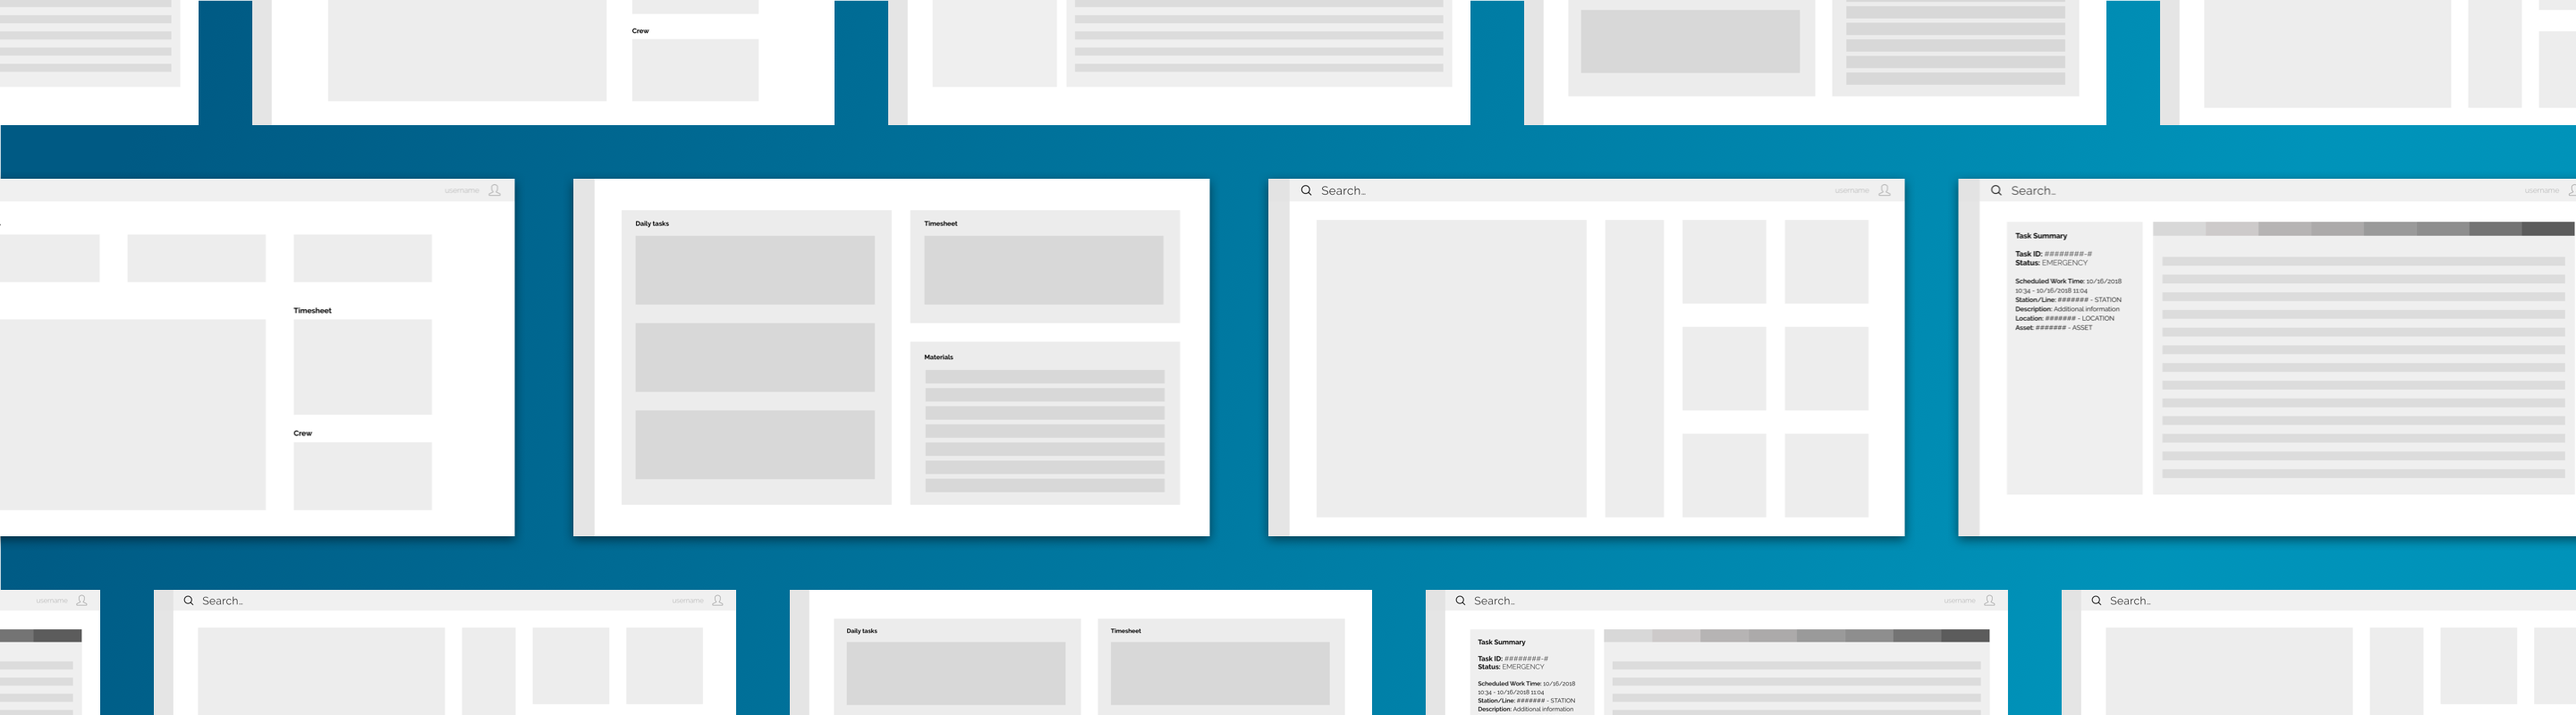
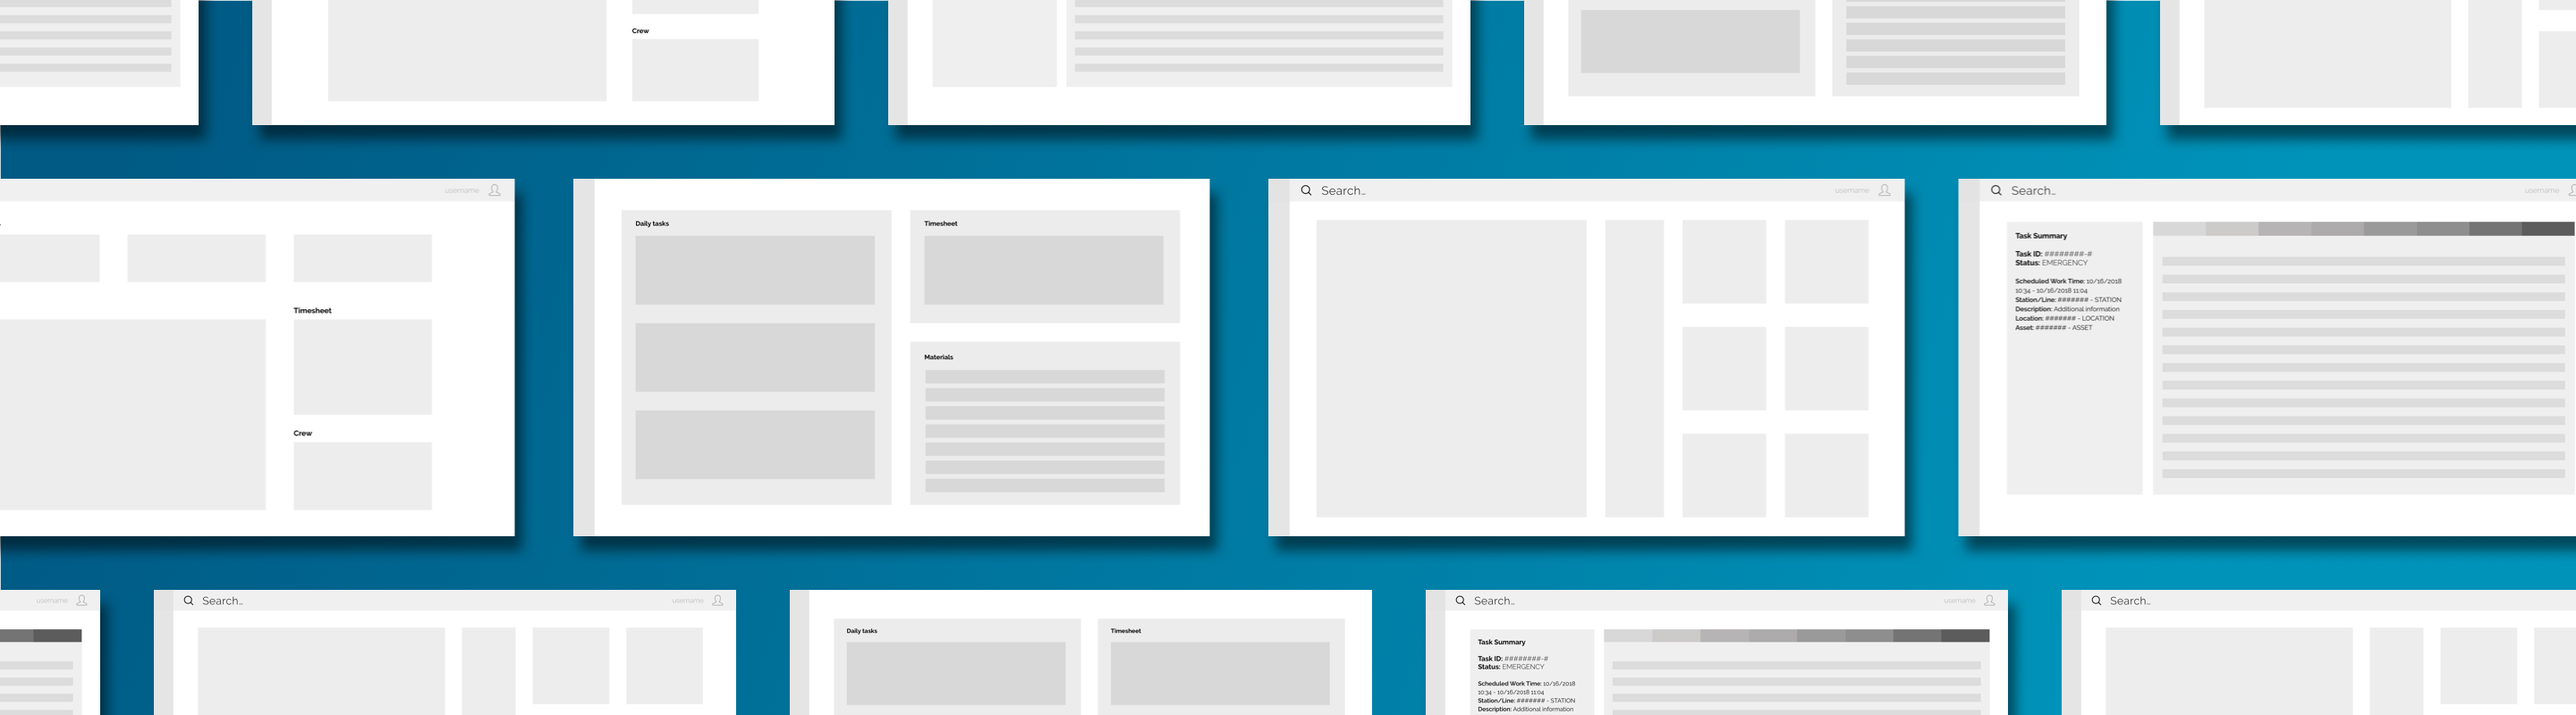
Update project images

Changed region(s): [[0.0, 0.0, 1.0, 0.2188], [0.0, 0.2812, 1.0, 0.7812], [0.0312, 0.8438, 0.0625, 1.0]]

diff --git a/projects/CAQH.html b/projects/CAQH.html
@@ -106,7 +106,7 @@
 	<div class="row">
 		<div class="col-lg-12">
 			<div class="alignfull">
-				<img src="../projects/caqh-files/full-images/caqh-1.png" class="">
+				<img src="../projects/caqh-files/full-images/components.png" class="">
 			</div>
 		</div>
 	</div>
@@ -118,7 +118,7 @@
 			<h1>Overview</h1>
 			<p>I was assigned to a project that initially tried to build a tool for users without doing proper research, user testing, and user experience design first. While the software had over 1.4 million users out of necessity for the service, the users couldn't properly use the tool. As a result, the call centers started to get overwhelmed with help calls, users became frustrated, and the tool was deemed unusable. That's when my team was brought in.</p>
 
-			<p>This project consisted of four portals, a comprehensive design system that gave the system a cohesive design, and multiple iterations to test our final product.</p>
+			<p>This project consisted of <b>four portals</b>, a <b>comprehensive design system</b> that gave the system a cohesive design, <b>8 prototypes</b> in Invision, <b>300+</b> screens in Sketch, and multiple iterations to test our final product.</p>
 
 			<p><a href="https://www.businesswire.com/news/home/20190115005246/en/CAQH-Develops-Provider-Data-Management-Solution-Delegated" target="_blank">Check out this review by Business Wire on the impact it has had in the industry!</a></p>
 		</div>
@@ -132,6 +132,16 @@
 	<div class="row justify-content-center">
 		<div class="col-lg-10 quote">
 			<h6><i>"Our new platform has the power to transform the market and establish a standard solution that eliminates operational friction and latency between groups, providers and health plans. This solution enables the platform to change and grow as the industry’s needs evolve."</i><br></h6> <p>- Ron Urwongse, CAQH’s Senior Product Manager</p>
+		</div>
+	</div>
+
+	<br><br>
+
+	<div class="row">
+		<div class="col-lg-12">
+			<div class="alignfull">
+				<img src="../projects/caqh-files/full-images/wires.png" class="">
+			</div>
 		</div>
 	</div>
 
@@ -709,6 +719,8 @@
 		<a href="https://github.com/elizabethdavis" target="_blank"><i class="fab fa-github footer-icons"></i></a>
 				
 		<a href="mailto:elizmdavis94@gmail.com"><i class="far fa-paper-plane footer-icons"></i></a>
+
+		<a href="../projects/files/ElizabethDavis-Resume.pdf" target="_blank"><i class="far fa-file-alt footer-icons"></i></a>
 	</div>
 </div>
 </body>

diff --git a/projects/duke.html b/projects/duke.html
@@ -256,7 +256,7 @@
 	<div class="row">
 		<div class="col">
 			<h1>Outcome</h1>
-			<p>The usability practices that I identified are being proposed to the business support team to identify the quick wins and a timeline of when we can implement these usability standards into the project sprints. When I was brought in, I knew that the team had already planned for several sprints in advance and tried to give general guidelines rather than specific changes that may be impacted in the future. The changes that I have proposed should start to be in effect by the end of 2019. Unfortunately, I have been moved off of this project and have been unable to see these changes through to completion, but I know that I had kept the users in mind and the best usability practices available to suggest improvements.</p>
+			<p>The usability practices that I identified are being proposed to the business support team to identify the quick wins and a timeline of when we can implement these usability standards into the project sprints. When I was brought in, I knew that the team had already planned for several sprints in advance and tried to give general guidelines rather than specific changes that may be impacted in the future. The changes that I have proposed should start to be in effect by the end of 2019.</p>
 		</div>
 	</div>
 
@@ -306,6 +306,8 @@
 		<a href="https://github.com/elizabethdavis" target="_blank"><i class="fab fa-github footer-icons"></i></a>
 				
 		<a href="mailto:elizmdavis94@gmail.com"><i class="far fa-paper-plane footer-icons"></i></a>
+
+		<a href="../projects/files/ElizabethDavis-Resume.pdf" target="_blank"><i class="far fa-file-alt footer-icons"></i></a>
 	</div>
 </div>
 

diff --git a/index.html b/index.html
@@ -113,7 +113,7 @@
 			</div>
 
 			<div class="card project-card">
-				<img class="card-img-top" src="images/projects/duke-mockup-2.png" alt="Card image cap">
+				<img class="card-img-top" src="images/projects/duke.png" alt="Card image cap">
 				<div class="card-body d-flex flex-column">
 					<h5 class="card-title">Usability Analysis and Review for Energy Companies</h5>
 					<p class="card-subtitle mb-2 text-muted">Usability Expert</p>

diff --git a/projects/ActIII.html b/projects/ActIII.html
@@ -326,6 +326,8 @@
 		<a href="https://github.com/elizabethdavis" target="_blank"><i class="fab fa-github footer-icons"></i></a>
 				
 		<a href="mailto:elizmdavis94@gmail.com"><i class="far fa-paper-plane footer-icons"></i></a>
+
+		<a href="../projects/files/ElizabethDavis-Resume.pdf" target="_blank"><i class="far fa-file-alt footer-icons"></i></a>
 	</div>
 </div>
 

diff --git a/projects/carrier.html b/projects/carrier.html
@@ -353,6 +353,8 @@
 		<a href="https://github.com/elizabethdavis" target="_blank"><i class="fab fa-github footer-icons"></i></a>
 				
 		<a href="mailto:elizmdavis94@gmail.com"><i class="far fa-paper-plane footer-icons"></i></a>
+
+		<a href="../projects/files/ElizabethDavis-Resume.pdf" target="_blank"><i class="far fa-file-alt footer-icons"></i></a>
 	</div>
 </div>
 
